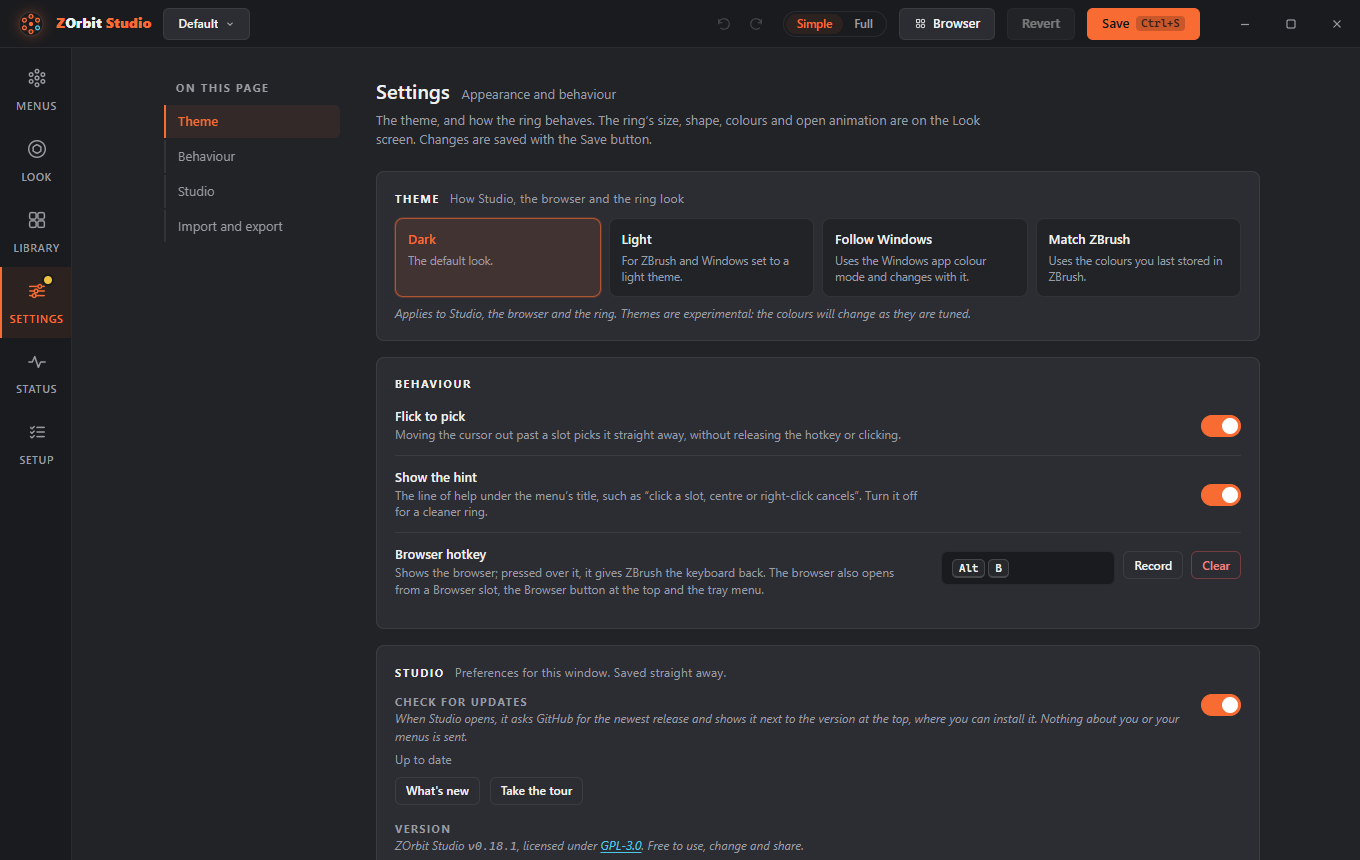
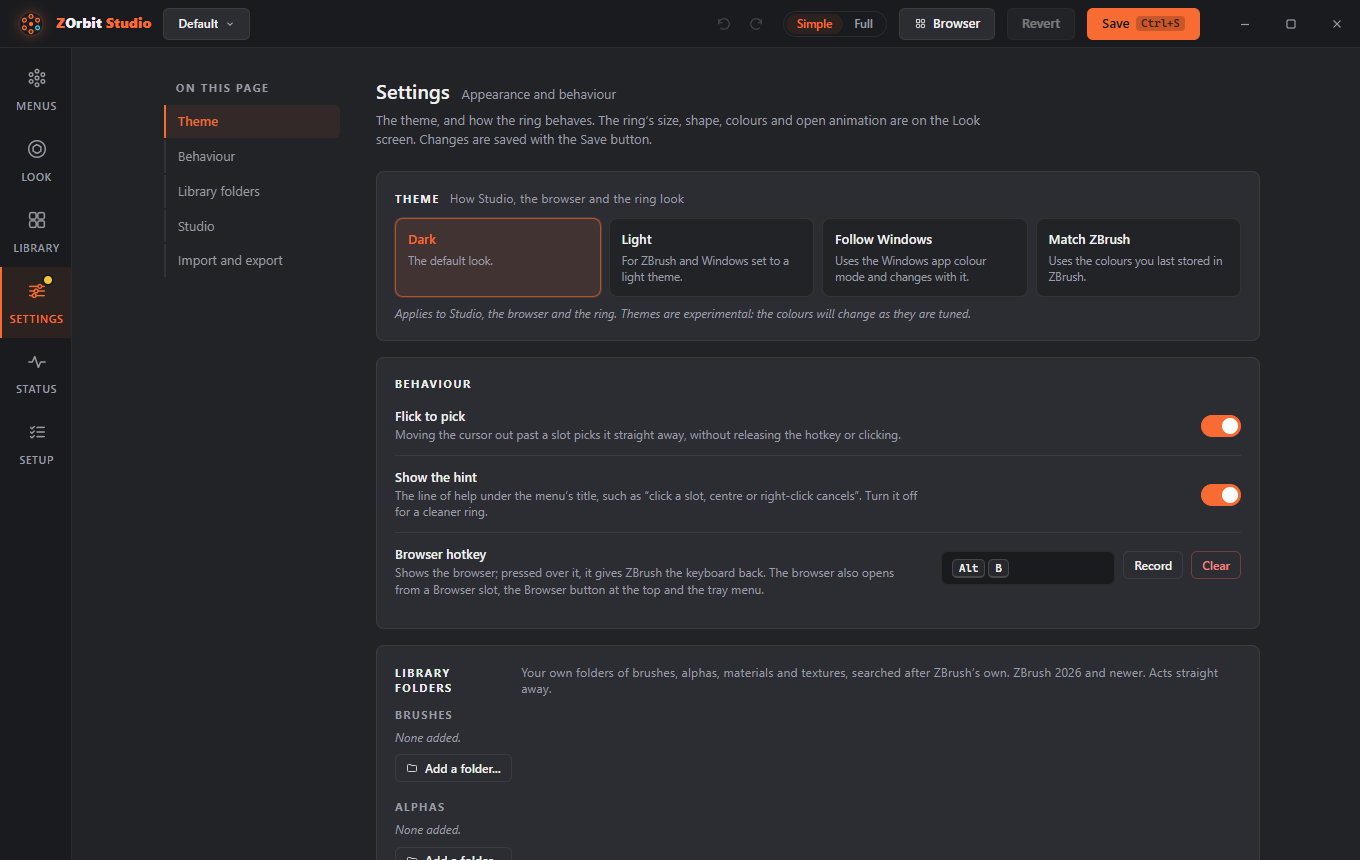
Docs: your own library folders; Settings card hardening
The browser page gains Your own folders (the card, the name rule, a folder that cannot be read, when the lists
change, ZBrush 2022 to 2025); menus.md's search orders, studio.md, files.md, troubleshooting.md, README and the
changelog follow. The Settings pictures are retaken and settings-library-folders.png is new. The card now repaints
after a refused forget, reads a kind not yet read so the rows get their counts, and reloads a kind still being
read after an add (cold review).

Changed region(s): [[0.2779, 0.7558, 0.9265, 1.0], [0.1235, 0.2116, 0.2162, 0.2721], [0.3706, 0.907, 0.4324, 0.9372]]

diff --git a/zorbit/studio_ui/app.js b/zorbit/studio_ui/app.js
@@ -4387,8 +4387,9 @@ function buildSettingsScreen(root) {
       if (!r || r.cancelled) return;
       toast(r.message || (r.ok ? fallback : 'That did not work.'), !r.ok ? { tone: 'warn', ms: 5000 } : r.already ? { ms: 4000 } : { tone: 'ok', ms: 4000 });
       if (r.folders) { ++lfGen; lfPaint(r.folders); }
+      else if (!r.ok) { lfLook(); return; }                    // refused without a list (the file changed under the card): paint what is there now
       if (r.ok && !r.already) {
-        if (lib(kind).loaded) await loadLibrary(kind, true);
+        await loadLibrary(kind, true);                         // also a kind not read yet, or one still being read: its list then has the folder
         lfLook();                                              // the counts fill in once the folder has been read
       }
     };
@@ -4399,7 +4400,16 @@ function buildSettingsScreen(root) {
       try { r = await call('get_library_folders'); if (gen !== lfGen) return; }
       catch (e) { if (gen !== lfGen) return; lfBox.replaceChildren(h('div', { class: 'fhint bad' }, 'Could not read your folders: ' + e.message)); return; }
       if (r && r.ok && r.folders) lfPaint(r.folders);
-      else lfBox.replaceChildren(h('div', { class: 'fhint bad' }, (r && r.message) || 'Could not read your folders.'));
+      else { lfBox.replaceChildren(h('div', { class: 'fhint bad' }, (r && r.message) || 'Could not read your folders.')); return; }
+      // A kind with folders that this page has not read yet: read it now, so the rows get their counts (and Cannot be read) without a visit to the Library.
+      const unread = LIB_KINDS.filter(k => (r.folders[k] || []).length && !lib(k).loaded && !lib(k).busy);
+      if (!unread.length) return;
+      try {
+        await Promise.all(unread.map(k => loadLibrary(k)));
+        if (gen !== lfGen) return;
+        const r2 = await call('get_library_folders');
+        if (gen === lfGen && r2 && r2.ok && r2.folders) lfPaint(r2.folders);
+      } catch (e) { /* the rows stay without counts; the Library screen will say */ }
     };
     page.append(card('Library folders', 'Your own folders of brushes, alphas, materials and textures, searched after ZBrush’s own. ZBrush 2026 and newer. Acts straight away.', lfBox));
     R.libfolders = lfLook;

diff --git a/docs/browser.md b/docs/browser.md
@@ -28,7 +28,7 @@ The browser follows the Theme setting (**Dark**, **Light**, **Follow Windows** o
 
 - The header has four tabs: **Brushes**, **Alphas**, **Materials** and **Textures**. Click a tab, or press **Ctrl+Tab** and **Ctrl+Shift+Tab** to move through them. With a tab focused, **Left** and **Right** move between them too. The search text, the tag filter and the thumbnail size stay when you switch tab. The folder and the selection do not: each tab opens on **All** with nothing selected. The tab you were on last is remembered.
 - The **Back** and **Forward** buttons on a mouse step through the tabs and folders you have visited, like the pages of a web browser. A new choice drops whatever was ahead. The search text and the tag filter are not part of the history.
-- Type to search by name: any letter you type goes to the search box. Two files whose names differ only by capitals or spaces count as one item, and the first folder searched wins, as it does on the ring. Subfolders are included; folders whose name starts with `_` are skipped.
+- Type to search by name: any letter you type goes to the search box. Two files whose names differ only by capitals or spaces count as one item, and the first folder searched wins, as it does on the ring. Subfolders are included; folders whose name starts with `_` are skipped. Folders you added yourself are searched after ZBrush's own and name their files a little differently: see [Your own folders](#your-own-folders).
 - Click chips to filter by tag, and folders to filter by folder, as in the Library. With two or more tags on, the **Match** switch chooses whether an item needs any of them (**Any**) or all of them (**All**); see [Filtering](tags.md#filtering). If you have collapsed the folders and tags column (see below), a filter that is on shows as a chip beside **Rescan**, such as **Filtered: Blocking** or **Folder: My Brushes** (**Filtered: Blocking + Hard** under **All**). Click it to clear that filter.
 - **Arrow keys** move from item to item, and **Home** and **End** on a card jump to the first and last. After a search the first match is highlighted. The arrows and **Enter** work on what the search shows, even when you press them straight after typing.
 - After you click a chip, a folder, a tab, **Rescan** or the pin, the cursor goes back to the search box, so **Enter** still picks the highlighted item and letters still search. Tab to a control and press **Enter** or **Space** and that control keeps the focus, as usual.
@@ -40,7 +40,49 @@ The browser follows the Theme setting (**Dark**, **Light**, **Follow Windows** o
 - The pin button in the header is **Keep on top**. It is on by default: the browser stays above other windows, so it is there when you glance at it. Switch it off and it sits in the stack like any other window. The choice is remembered.
 - The panel button next to it collapses the folders and tags column, so the thumbnails get the whole window, and shows it again. The arrows button beside it moves the column to the right side of the window, and back. Both are remembered.
 - The slider next to the search box sets the size of the thumbnails, from 84 to 220 pixels. The size is remembered.
-- **Rescan** looks for brush, alpha, material or texture files again, on the tab you are on. The browser also does this by itself when it appears, or when you open a tab, if the last look is more than a minute old, so a brush you saved in ZBrush a moment ago is there. The list updates where it is: the highlighted item and the scroll position stay. When the folders still hold the same files, the cards are left alone and nothing is redrawn, which keeps a rescan quick on a big library. A tab's thumbnails are fetched a few at a time, the ones in view first, so the first cards fill in before the rest. The toast says what it found, for example **Found 12 brushes, 2 new**. If no ZBrush is known, the list says **ZBrush was not found** and to start ZBrush once and press **Rescan**; if a ZBrush is known but its folders hold no files, the list names the file types it looks for, for example `.psd`, `.bmp`, `.jpg`, `.jpeg`, `.png`, `.tif` and `.tiff` for alphas. If the folders cannot be read (a folder that was there before is gone, or its drive cannot be reached), the list you had stays and the toast says why.
+- **Rescan** looks for brush, alpha, material or texture files again, on the tab you are on. The browser also does this by itself when it appears, or when you open a tab, if the last look is more than a minute old, so a brush you saved in ZBrush a moment ago is there. The list updates where it is: the highlighted item and the scroll position stay. When the folders still hold the same files, the cards are left alone and nothing is redrawn, which keeps a rescan quick on a big library. A tab's thumbnails are fetched a few at a time, the ones in view first, so the first cards fill in before the rest. The toast says what it found, for example **Found 12 brushes, 2 new**. If no ZBrush is known and you have added no folder of your own, the list says **ZBrush was not found** and to start ZBrush once and press **Rescan**; with a folder added, the list shows without ZBrush. If the folders hold no files, the list names the file types it looks for, for example `.psd`, `.bmp`, `.jpg`, `.jpeg`, `.png`, `.tif` and `.tiff` for alphas. If a folder cannot be read (it was there before and is gone, or its drive cannot be reached), the items it had stay, the other folders are read afresh, and a line above the list and the toast say why (see [A folder that cannot be read](#a-folder-that-cannot-be-read)).
+
+## Your own folders
+
+If you keep brushes, alphas, materials or textures in folders of your own, such as a pack you bought, add the folder and the browser, the Library and the ring find its files. You add them in Studio, on **Settings > Library folders**. It works in Simple and Full mode and needs ZBrush 2026 or newer.
+
+![The Library folders card on Settings: a Brushes folder that was found with its file count, a missing Alphas folder, and an Add a folder button under each of the four kinds](images/settings-library-folders.png)
+
+The card has a list for each of **Brushes**, **Alphas**, **Materials** and **Textures**. Press **Add a folder...** under a list and pick the folder. Each row shows the folder's name, its path and a tag: how many files ZOrbit found in it, **Missing** when the folder is not there, or **Cannot be read**. **X** on a row (**Forget this folder**) takes the folder out of the list. It does not touch the folder or its files. Both act straight away; there is no **Save**.
+
+The lists belong to this PC. They are in `studio.json` under `library_folders`, not in a profile, so switching profile does not change them and [exporting a menu](menus.md#share-a-menu) does not carry them.
+
+ZOrbit searches the folders you added after ZBrush's own, in the order you added them. Subfolders are searched, except folders whose name starts with `_`. Studio refuses a folder when:
+
+- it is a network folder ("That is a network folder. Add a folder on this PC.");
+- it cannot be found;
+- ZOrbit already searches it, because it is one of ZBrush's own folders or lies inside or around one ("ZOrbit already searches that folder: it is part of ZBrush (My Brushes).");
+- it lies inside or around a folder you already added for that kind, since everything in it would be listed twice. A folder that is already in the list says so.
+
+In the browser and the Library each folder you add is a folder of its own in the folders column, under its name. Two folders with the same name show as **Alphas** and **Alphas (2)**, and a name that clashes with **My Brushes**, **ZBrush** or **Lightbox** gets **(2)** too.
+
+### Names in a folder you added
+
+Packs often name their files `10`, `11`, `12`, and the same names sit in many packs. In ZBrush's own folders the first folder with a name wins, as before. In a folder you added, a file whose name is already taken is listed under its name with its pack folder in brackets. The pack folder is the first subfolder under the folder you added, or the added folder's own name for a file at its top. So `10.png` in the pack folder `Crack Alphas Vol 1` is listed as **10 (Crack Alphas Vol 1)** when another `10` is already listed. If that name is taken too, ZOrbit uses the whole subfolder path, such as **10 (Crack Alphas Vol 1, Tiled)**, and last it puts the added folder's name in front.
+
+One folder lists one file per name. If `10.png` and `10.psd` sit side by side, they are one item, the first by name, and the other is counted as hidden: the tag on the Settings row says, for example, "212 files, 3 hidden".
+
+A slot or a tag keeps the name as it is listed, so a slot can hold **10 (Crack Alphas Vol 1)**. Two limits come with this:
+
+- **ZBrush names a loaded item after its file.** Once a `10` from one pack is loaded, picking **10 (another pack)** selects the loaded one instead of loading the other. The first pick of each loads the right file, as long as no other item with that file name is loaded.
+- **A listed name can change.** If a file named `10` later appears in a folder searched earlier, such as **My Alphas**, the `10` in your added folder becomes **10 (its pack)**, and a slot that holds `10` then points at the new file. Pick the item again from the Library if that happens.
+
+### A folder that cannot be read
+
+When a folder you added cannot be read (its drive is unplugged, or the folder was renamed), it keeps the items it had, and the other folders are read afresh. The browser and the Library show the reason in a line above the list, and the **Rescan** toast says it too. On Settings the row says **Missing** or **Cannot be read**. Plug the drive back in or add the folder again under its new name, then press **Rescan**.
+
+### When the lists change
+
+The ring app notices a change to the lists within a second and reads the library again. `radiald.log` says `library folders changed: reading the library again`, then `library read again: N kinds, generation G`. Studio's Library updates at once. The browser takes it up on its next rescan (when it appears, or when you open a tab that was last read more than a minute ago), or when you press **Rescan**.
+
+### ZBrush 2022 to 2025
+
+A pick in ZBrush 2022 to 2025 searches only that ZBrush's own installation, as it always did. An item that only a folder you added has is listed, but a pick says **<name> could not be found in ZBrush**. See [Troubleshooting](troubleshooting.md#the-ring-opens-but-picks-do-nothing).
 
 ## Favourites and Recent
 
@@ -67,7 +109,7 @@ The browser is a separate program that sends your pick to the ZOrbit app, which 
 
 A browser you opened from Studio has no ZBrush of its own, so its picks go to the only ZBrush running. With more than one running, ZOrbit cannot tell which you mean: in `auto` mode it presses the bridge key if a ZBrush is in front, and in `message` mode the pick is dropped.
 
-The browser's list is the same whichever ZBrush is in front. A pick in ZBrush 2022 to 2025 only searches [that ZBrush's own folders](menus.md#brush), so an item that only a newer ZBrush has can be listed and still not load. The message near the cursor then says it **could not be found in ZBrush**.
+The browser's list is the same whichever ZBrush is in front. A pick in ZBrush 2022 to 2025 only searches [that ZBrush's own folders](menus.md#brush), so an item that only a newer ZBrush has, or that only a folder you added has, can be listed and still not load. The message near the cursor then says it **could not be found in ZBrush**.
 
 ## In the background
 

diff --git a/docs/troubleshooting.md b/docs/troubleshooting.md
@@ -76,7 +76,7 @@ When the app knows why a pick went nowhere, it shows a short message near the cu
 - **ZOrbit has no menus loaded**. A command from another program arrived before ZOrbit had read a menus file.
 - **This slot is empty**. You picked an auto slot nothing has filled yet, or a tag slot whose tag has no items.
 - **That menu has nothing usable in it**. You picked a submenu whose items are all empty or unusable.
-- **A name followed by "could not be found in ZBrush"** or **"is not a ZBrush button"**, or **ZBrush could not carry out that pick. See bridge.log.** The plugin picked the request up and reported a problem: the brush, alpha, material or texture is not installed, the `press`, `set` or `toggle` path does not exist, or ZBrush raised an error. `bridge.log` has the details (see [The pick is logged as selected, but nothing changes](#the-pick-is-logged-as-selected-but-nothing-changes)). In ZBrush 2022 to 2025 they are in `zscript_bridge.log` and `radiald.log`. A pick there only searches [that ZBrush's own folders](menus.md#brush), so an item the browser lists can still be missing.
+- **A name followed by "could not be found in ZBrush"** or **"is not a ZBrush button"**, or **ZBrush could not carry out that pick. See bridge.log.** The plugin picked the request up and reported a problem: the brush, alpha, material or texture is not installed, the `press`, `set` or `toggle` path does not exist, or ZBrush raised an error. `bridge.log` has the details (see [The pick is logged as selected, but nothing changes](#the-pick-is-logged-as-selected-but-nothing-changes)). In ZBrush 2022 to 2025 they are in `zscript_bridge.log` and `radiald.log`. A pick there only searches [that ZBrush's own folders](menus.md#brush), so an item the browser lists can still be missing. That includes an item that only a [folder you added](browser.md#your-own-folders) has: folders added on **Settings > Library folders** are searched in ZBrush 2026 and newer only.
 - **The capture folder cannot be used, nothing sent. See radiald.log.** A [Capture](menus.md#capture) item's folder is not a full path to a folder on this PC, or ZOrbit cannot make the folder or write a file into it. The picture's full path, folder and file name, is also refused when it is longer than 259 characters, or in ZBrush 2022 to 2025 when it is longer than 255 bytes in the ANSI code page. `radiald.log` gives the reason.
 - **ZBrush 2022-2025 cannot save to that capture folder's name, nothing sent**. In ZBrush 2022 to 2025 the folder's name has characters outside plain ASCII, and Windows has no short name for the folder, so the plugin cannot be given its path. Choose another folder.
 - **That file is not there, nothing sent. See radiald.log.** A [Tool](menus.md#tool) or [Project](menus.md#project) item names a file that is not on this PC, or its drive is not plugged in. Check the path and the drive.
@@ -137,7 +137,15 @@ In ZBrush 2026 and newer that is intended. A pick waits until you release the mo
 
 ### The browser is empty
 
-The browser and the Library read the folders of a ZBrush that has run at least once. When either says **ZBrush was not found**, the list stays empty until ZOrbit finds one. Start ZBrush once, then press **Rescan**. In Studio, the Library's message has a **Find ZBrush in Studio** button that opens Setup. In the browser window, open Studio from the tray icon or the Start menu and go to **Setup**, where **Add a ZBrush folder** adds one that is not found.
+The browser and the Library read the folders of a ZBrush that has run at least once. When either says **ZBrush was not found**, the list stays empty until ZOrbit finds one. (It says so only when you have added no folder of your own. With a folder added on **Settings > Library folders**, the list shows without ZBrush.) Start ZBrush once, then press **Rescan**. In Studio, the Library's message has a **Find ZBrush in Studio** button that opens Setup. In the browser window, open Studio from the tray icon or the Start menu and go to **Setup**, where **Add a ZBrush folder** adds one that is not found.
+
+### A folder you added cannot be read
+
+A folder from **Settings > Library folders** shows **Missing** (it is not there) or **Cannot be read** on its row. In the browser and the Library a line above the list gives the reason, and the **Rescan** toast says it. The folder keeps the items it had and the other folders are read afresh, so the rest of the list is still there. Plug the drive back in, or forget the folder with **X** and add it again under its new name, then press **Rescan**. Hover **Cannot be read** to see the Windows error. When you add or forget a folder, `radiald.log` says `library folders changed: reading the library again` within a second, then `library read again: N kinds, generation G`. **Copy report** on **Status** lists every folder you added, with its state.
+
+### A name in a folder I added has a bracket after it
+
+That is on purpose. When a file's name is already taken, it is listed with its pack folder, such as **10 (Crack Alphas Vol 1)**. See [Names in a folder you added](browser.md#names-in-a-folder-you-added). If a pick of such an item selects another one with the same file name, ZBrush has loaded that one already: it names an item after its file.
 
 ### The browser opens but does not take the keyboard
 
@@ -239,7 +247,7 @@ Exit code 2 with ZOrbit running usually means ZOrbit runs as administrator and t
 
 `%LOCALAPPDATA%\ZOrbit` holds `radiald.log` (the app), `bridge.log` (ZBrush side), `zscript_bridge.log` (ZBrush 2022 to 2025: the last pick), `studio.log` (how Studio started), `popout.log` (the browser) and `app_stderr.log` (crashes at startup). Studio's **Status** screen shows the tail of the app log and has buttons that open the logs folder and the config folder. [Files, backups and logs](files.md#files-and-logs) lists every file ZOrbit keeps.
 
-For a bug report, press **Copy report** on the **Status** screen and paste the result into the form. **Report a bug** next to it opens the form with the versions filled in. The report holds the ZOrbit and Windows versions, how ZOrbit was installed, your ZBrush installs and which of them runs (and whether as administrator), the bridge mode and key, the **Status** cards, the profile in use, any problems in the menus file, and the end of each log that fits your setup, from the current session where the log marks one.
+For a bug report, press **Copy report** on the **Status** screen and paste the result into the form. **Report a bug** next to it opens the form with the versions filled in. The report holds the ZOrbit and Windows versions, how ZOrbit was installed, your ZBrush installs and which of them runs (and whether as administrator), the bridge mode and key, the **Status** cards, the profile in use, any problems in the menus file, your Library folders (one line each: found with its file count, missing, or could not be read, or "none added"), and the end of each log that fits your setup, from the current session where the log marks one.
 
 Before it copies, `%LOCALAPPDATA%` and your home folder are written back as `%LOCALAPPDATA%` and `%USERPROFILE%`, and your Windows user name, including the short form Windows can give it, becomes `<user>` where it comes right after a `\` or `/` in a path, or as a word on a line that runs an `.exe`. Brush names and menu ids stay, so a user called `brush` still has `brush Clay: selected` in the log. A folder name with your name joined to other text, such as `D:\Sam_art`, stays too, and so does your name anywhere else, so look the report over before you post it.
 

diff --git a/docs/studio.md b/docs/studio.md
@@ -8,7 +8,7 @@ Studio is where you edit everything. Open it from the Start menu (**ZOrbit Studi
 | Menus | Alt+1 | Create and edit menus and their items, with a live ring preview. |
 | Look | Alt+2 | How the ring looks and opens, for every menu or for one: its size, slot shape, hub, glow, labels, colours, tag colours and open animation, a gallery of looks to use, and a live preview. See [The Look screen](#the-look-screen). |
 | Library | Alt+3 | Browse the brushes, alphas, materials and textures ZBrush can load, on four tabs, with search, folders and thumbnails. Click an item and press **Add to <menu>**, or drag it onto a menu, the ring or the item list. **Rescan** picks up items saved since Studio opened. Tag items and filter by tag (see [Tags](tags.md)). Star favourites; Recent lists what you have picked in ZBrush (see [Favourites and Recent](browser.md#favourites-and-recent)). |
-| Settings | Alt+4 | The theme, flick, the hint, the browser hotkey, Studio's own preferences, and Import and export (see [Import and export](files.md#import-and-export)). The ring's size, shape, colours and open animation are on **Look**. [Full mode](#simple-and-full-mode) adds hover submenus, tap time, auto-close, **Quit hidden browser after**, **Next profile hotkey**, the bridge and Older ZBrush. |
+| Settings | Alt+4 | The theme, flick, the hint, the browser hotkey, your own [library folders](browser.md#your-own-folders), Studio's own preferences, and Import and export (see [Import and export](files.md#import-and-export)). The ring's size, shape, colours and open animation are on **Look**. [Full mode](#simple-and-full-mode) adds hover submenus, tap time, auto-close, **Quit hidden browser after**, **Next profile hotkey**, the bridge and Older ZBrush. |
 | Status | Alt+5 | Four cards: **ZBrush** (running or not), **ZOrbit app** (running or not, with **Start app** when ZBrush is running, or amber with **Restart app** when the app running is older than Studio: see [Older versions](profiles.md#older-versions)), **Bridge listener** (the small window the plugin keeps inside ZBrush: **Connected**, **Found, unverified**, **Stale** or **Not found**; **ZBrush closed** in grey when ZBrush is not running, since there is nothing to listen in; and **Not needed (key bridge)** when the bridge mode is `key` or only a ZBrush 2022 to 2025 is installed) and **Last pick** (the most recent item sent to ZBrush). Below them the last 40 lines of the app log, with **Copy log**, **Copy report** (everything a bug report needs in one block, with your [user name and folders hidden](troubleshooting.md#logs)), **Report a bug** (the bug form on GitHub, with the versions filled in), **Open logs folder** and **Open menus folder** (the folder of the profile you are editing, which holds its `radial.json`). The screen refreshes every 3 seconds. A dot on this button in the rail means the app is not running while ZBrush is. |
 | Setup | Alt+6 | A checklist of three steps: ZBrush found (with the plugin set up for it), plugin loaded in ZBrush, and try the ring. It shows live state and offers one action per step, and ends with links to the other screens and **Take the tour**. An amber dot on this button in the rail means no ZBrush that Studio found has the plugin set up, or a running ZBrush does not. Finding no ZBrush at all does not count. |
 
@@ -29,10 +29,10 @@ The mode only changes what Studio shows. The ring, the app, `radial.json`, Save,
 | Library and the dock | Everything, with starring, tag chips and the right-click tag picker. | **Manage tags...**, with the path of the tags file under it. |
 | Look | The **All menus** and **This menu** levels, **Ring size**, **Slot shape**, **Labels**, **When full** and **Opening** (the open animation, with **Play**), and the gallery with **Use for ...** and **New from current**. | **Ring radius**, **Slot size** and **Dead zone** in place of **Ring size**, **Corner roundness**, **Rim width**, **Icon size**, **Hub**, **Glow**, **Label colour**, **Colours** and **Tag colours**, **Edit**, **Duplicate**, **Rename** and **Delete** on a look, and the **This slot** level. |
 | Menus, **Item** tab | A read-only **Style** line when the item has a style. | **Style** with **Edit in Look** and **Reset style**. |
-| Settings | **Theme**, **Behaviour** with **Flick to pick**, **Show the hint** and **Browser hotkey**, **Studio** and **Import and export**. | **Open submenus on hover**, **Tag fan slots**, **Tap time**, **Auto-close**, **Quit hidden browser after** and **Next profile hotkey** in **Behaviour**, then **ZBrush bridge** and **Older ZBrush** after **Import and export**. |
+| Settings | **Theme**, **Behaviour** with **Flick to pick**, **Show the hint** and **Browser hotkey**, **Library folders**, **Studio** and **Import and export**. | **Open submenus on hover**, **Tag fan slots**, **Tap time**, **Auto-close**, **Quit hidden browser after** and **Next profile hotkey** in **Behaviour**, then **ZBrush bridge** and **Older ZBrush** after **Import and export**. |
 | Status and Setup | The same. | The same. |
 
-![The Settings screen in Simple mode: a shorter list of sections on the left, with the Theme, Behaviour, Studio and Import and export cards](images/studio-settings-simple.png)
+![The Settings screen in Simple mode: a shorter list of sections on the left, with the Theme, Behaviour, Library folders, Studio and Import and export cards](images/studio-settings-simple.png)
 
 In Simple, the **Ring size** slider on **Look** moves **Ring radius**, **Slot size** and **Dead zone** together and keeps their proportions. Its reset button puts all three back to their defaults.
 

diff --git a/docs/files.md b/docs/files.md
@@ -44,7 +44,7 @@ To share one menu, use **Export menu...** in the **Menu** tab. It writes the men
 | `%LOCALAPPDATA%\ZOrbit\zscript_bridge.log` | ZBrush 2022 to 2025: what the last pick did. The app copies each of these into `radiald.log`, as a line that starts `pick #<number> result:`, so the earlier ones are kept there. |
 | `%LOCALAPPDATA%\ZOrbit\zscript_launch.log` | ZBrush 2022 to 2025: how the plugin last started the app or Studio. |
 | `%LOCALAPPDATA%\ZOrbit\zscript_hotkey.log` | ZBrush 2022 to 2025: the hotkey Apply had when the plugin loaded, and the one it has after (88 is F9). |
-| `%APPDATA%\ZOrbit\studio.json` | Studio's own preferences: `check_updates` (the update check), `setup_done` (Setup finished or skipped), `last_screen` (the screen Studio reopens on), `mode` (`simple` or `full`, see [Simple and Full mode](studio.md#simple-and-full-mode)), `theme` (`dark`, `light`, `system` for **Follow Windows** or `zbrush` for **Match ZBrush**, see [Theme](appearance.md#theme)), `zbrush_folders` (ZBrush folders added by hand on Setup or Older ZBrush), `seen_version` (the version whose **What's new** you closed last, see [Version and update check](studio.md#version-and-update-check)), `tour_seen` (true once the [tour](studio.md#the-tour) has been offered or taken), `skipped_version` (the version you chose **Don't remind me again** for), and `window` (window placement). |
+| `%APPDATA%\ZOrbit\studio.json` | Studio's own preferences: `check_updates` (the update check), `setup_done` (Setup finished or skipped), `last_screen` (the screen Studio reopens on), `mode` (`simple` or `full`, see [Simple and Full mode](studio.md#simple-and-full-mode)), `theme` (`dark`, `light`, `system` for **Follow Windows** or `zbrush` for **Match ZBrush**, see [Theme](appearance.md#theme)), `zbrush_folders` (ZBrush folders added by hand on Setup or Older ZBrush), `library_folders` (the folders of your own brushes, alphas, materials and textures you added on **Settings > Library folders**, a list for each kind; see [Your own folders](browser.md#your-own-folders)), `seen_version` (the version whose **What's new** you closed last, see [Version and update check](studio.md#version-and-update-check)), `tour_seen` (true once the [tour](studio.md#the-tour) has been offered or taken), `skipped_version` (the version you chose **Don't remind me again** for), and `window` (window placement). |
 | `%APPDATA%\ZOrbit\profiles\<profile>\tags.json` | The tags of one profile: each tag's label and colour (Favourites included), and which items carry which tags. Created the first time you change a tag. See [Tags](tags.md#where-tags-live). |
 | `%APPDATA%\ZOrbit\profiles\<profile>\tags.json.bak` | The profile's old `tags.json`, kept when you import a file with **Replace tags** (see [Import and export](#import-and-export)). Only the last one is kept. |
 | `%APPDATA%\ZOrbit\popout.json` | The browser's window position and size, whether it is maximised, Keep on top, thumbnail size, the side of the folders column (`side`), whether it is shown (`column`) and the tab you were last on (`kind`). Safe to delete. |
@@ -60,4 +60,4 @@ To share one menu, use **Export menu...** in the **Menu** tab. It writes the men
 | `<ZBrush>\ZStartup\ZPlugs64\ZOrbitBridge.zsc` | ZBrush 2022 to 2025: the plugin. Its `ZOrbitData` folder says where picks arrive and how to start the app. |
 | `%PUBLIC%\Documents\ZBrushData<year>\ZStartup\CustomUserInterface<year>.cfg`, and for ZBrush 2026.1 and newer `%APPDATA%\Maxon\ZBrush <year>_<id>\ZStartup\UserInterfaceLayouts\CustomUserInterface<year>.cfg` | ZBrush's own file, written when you press **Store Config**. ZOrbit reads the interface colours in it for the **Match ZBrush** [theme](appearance.md#match-zbrush) and never changes it. |
 
-When you report a bug, use **Copy report** on Studio's **Status** screen. It takes the ends of the logs that fit your setup and [hides your user name and folders](troubleshooting.md#logs). If you copy a log by hand, read what you paste. The logs hold brush names and menu ids, and also your Windows user name and folder paths: the plugin logs where it loaded from and how it started the app, the app logs the command line of the browser, and `studio.log` and `popout.log` log the working directory. Black out those parts.
+When you report a bug, use **Copy report** on Studio's **Status** screen. It takes the ends of the logs that fit your setup, lists the library folders you added, and [hides your user name and folders](troubleshooting.md#logs). If you copy a log by hand, read what you paste. The logs hold brush names and menu ids, and also your Windows user name and folder paths: the plugin logs where it loaded from and how it started the app, the app logs the command line of the browser, and `studio.log` and `popout.log` log the working directory. Black out those parts.

diff --git a/docs/menus.md b/docs/menus.md
@@ -110,8 +110,9 @@ ZOrbit searches these folders, in order. The first folder that has the name wins
 
 1. `ZStartup\BrushPresets` in your user assets folder, the one ZBrush 2026 and newer record in `userassets_path.txt` under `%APPDATA%\Maxon` (shown as **My Brushes**).
 2. In the ZBrush installation: `ZStartup\BrushPresets` (**My Brushes**), `ZData\BrushPresets` (**ZBrush**), then `Lightbox\Brushes` and `ZBrushes` (**Lightbox**).
+3. The folders you added under **Brushes** in **Settings > Library folders**, in the order you added them (ZBrush 2026 and newer). Each shows as a folder of its own, under its name. There a file whose name is already taken is not hidden: it is listed with its pack folder in brackets, such as **10 (Crack Alphas Vol 1)**. See [Your own folders](browser.md#your-own-folders).
 
-For a pick in ZBrush 2022 to 2025, only the four folders of that ZBrush's own installation are searched, because an older ZBrush cannot always read a newer version's brushes. Subfolders are searched too, except folders whose name starts with `_`. Two files whose names differ only by capitals or spaces count as one brush.
+For a pick in ZBrush 2022 to 2025, only the four folders of that ZBrush's own installation are searched, because an older ZBrush cannot always read a newer version's brushes. A brush that only a folder you added has is listed, but a pick there says it **could not be found in ZBrush**. Subfolders are searched too, except folders whose name starts with `_`. Two files whose names differ only by capitals or spaces count as one brush.
 
 ### Alpha, material and texture
 
@@ -127,9 +128,13 @@ two folders hold a file with the same name (capitals and spaces in the name are 
 - **ZBrush 2026 and newer:** `ZStartup\Alphas`, `ZStartup\Materials` and `ZStartup\Textures` in your user folder (shown
   as **My Alphas**, **My Materials** and **My Textures**), then the installation's `ZData\Alphas`, `ZData\Materials` and
   `ZData\Textures` (shown as **ZBrush**), then its `Lightbox\Alphas`, `Lightbox\Materials` and `Lightbox\Textures`
-  (shown as **Lightbox**).
+  (shown as **Lightbox**), then the folders you added for that kind in **Settings > Library folders**, in the order you
+  added them. In those, a file whose name is already taken is listed with its pack folder in brackets, such as
+  **10 (Crack Alphas Vol 1)**, instead of being hidden (see [Your own folders](browser.md#your-own-folders), which also
+  says what ZBrush does when two packs share a file name).
 - **ZBrush 2022 to 2025:** `ZStartup\Alphas`, `ZStartup\Materials` and `ZStartup\Textures`, then the installation's
-  `ZData\...` folders, then its `ZAlphas`, `ZMaterials` and `ZTextures` folders.
+  `ZData\...` folders, then its `ZAlphas`, `ZMaterials` and `ZTextures` folders. The folders you added are not searched:
+  an item that only they have is listed, but a pick says it **could not be found in ZBrush**.
 
 Alphas can be `.psd`, `.bmp`, `.jpg`, `.jpeg`, `.png`, `.tif` or `.tiff` files. Materials are `.zmt` files. Textures can be
 `.psd`, `.jpg`, `.jpeg`, `.png`, `.bmp`, `.tif`, `.tiff` or `.exr` files.

diff --git a/README.md b/README.md
@@ -39,7 +39,7 @@ The **[roadmap board](https://github.com/users/combwizard/projects/2)** shows wh
 - **More than brushes.** A slot can select a brush, load an alpha, material, texture or tool, open a project, press any ZBrush button, set a slider, flip a switch, save the picture as a PNG, run several of those in a row, or open another ring.
 - **Submenus.** Rings can open other rings, so a handful of hotkeys can reach a lot. Hover a submenu and it opens on the spot, so one stroke can reach an item two rings deep.
 - **Fan-out submenus.** Switch a menu to fan out and it opens in place: its items spread in an arc beyond its slot while the ring you came from stays put. Fans can open fans, up to three deep.
-- **Tags and a browser.** Tag your brushes, alphas, materials and textures in Studio, colour their slots by tag (an icon tint, a glow, or a band through the ring), and give a slot a tag to open a fan of every item that carries it. A hotkey (Alt+B) opens a browser over ZBrush with four tabs (brushes, alphas, materials and textures), search, folders, tag chips and thumbnails; Enter picks the item. Star your favourites with one press, and a Recent list shows what you picked last.
+- **Tags and a browser.** Tag your brushes, alphas, materials and textures in Studio, colour their slots by tag (an icon tint, a glow, or a band through the ring), and give a slot a tag to open a fan of every item that carries it. A hotkey (Alt+B) opens a browser over ZBrush with four tabs (brushes, alphas, materials and textures), search, folders, tag chips and thumbnails; Enter picks the item. Add folders of your own brushes, alphas, materials and textures (ZBrush 2026 and newer) and they are listed beside ZBrush's. Star your favourites with one press, and a Recent list shows what you picked last.
 - **ZOrbit Studio.** Edit menus with a live preview of the real ring. Drag brushes in from a searchable library with thumbnails, record hotkeys, pick a dark or light theme or match ZBrush's own colours, change colours, size and animation. A Setup screen walks a new install through finding ZBrush and trying the ring, Import and export moves your menus, settings and tags to another PC, and Export menu... saves one menu to a file you can send to someone. A Simple / Full switch keeps Studio to the everyday controls until you want the rest, and a short tour shows where everything is.
 - **Looks.** Six slot shapes, hub styles, glow and label colours, seven built-in looks and your own, for every menu,
   one menu or one slot. A full ring can grow, spill onto a second ring, or end in a More slot.

diff --git a/CHANGELOG.md b/CHANGELOG.md
@@ -6,9 +6,19 @@ All notable changes to this project are listed here. The format follows
 
 ## [Unreleased]
 
+### Added
+
+- **Library folders** on Studio's **Settings** screen adds folders of your own brushes, alphas, materials and textures. The browser, the Library and the ring search them after ZBrush's own folders, in the order you added them, and each shows as a folder of its own. A file whose name is already taken is listed with its pack folder in brackets, such as **10 (Crack Alphas Vol 1)**, since packs often reuse the same names. ZBrush 2026 and newer only. **Copy report** lists the folders too.
+
+### Changed
+
+- A folder that cannot be read (its drive unplugged, the folder renamed) keeps the items it had and no longer empties the list or holds up the other folders. The browser and the Library show the reason in a line above the list.
+- The thumbnail cache keeps at least twice as many pictures as the library has items, instead of a fixed 8,000.
+
 ### Fixed
 
 - Studio and the docs said a ZBrush under Program Files always asks for administrator rights. It only asks when your account cannot write to that folder, and the ZBrush 2022 install we tested lets every account write there.
+- A folder that is slow to read no longer holds up a pick.
 - The path field of a **Project** slot showed only about 9 characters of the path, because it shared its row with the two browse buttons. On **Project**, **Tool** and **Capture** slots the buttons now sit under the field, which has the panel's whole width.
 
 ## [0.19.0] - 2026-11-05
